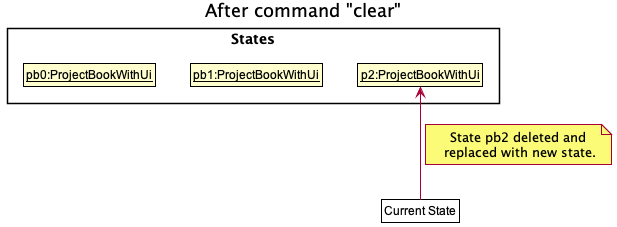
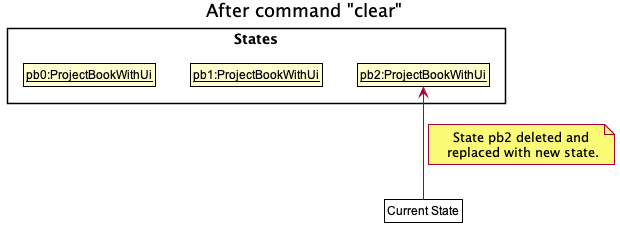
Update developer guide, user guide, logging

diff --git a/src/main/java/seedu/momentum/model/ModelManager.java b/src/main/java/seedu/momentum/model/ModelManager.java
@@ -333,7 +333,7 @@ public class ModelManager implements Model {
         displayList.setValue(new SortedList<>(new FilteredList<>(itemList, currentPredicate), currentComparator));
     }
 
-      //=========== Reminders ==================================================================================
+    //=========== Reminders ==================================================================================
     //@@author claracheong4
     private void rescheduleReminders() {
         reminderManager.rescheduleReminder();
@@ -435,7 +435,7 @@ public class ModelManager implements Model {
         assert canUndoCommand();
         versionedProjectBook.undo();
 
-        // extract view mode details from ProjectBook version after undo
+        // extract details from ProjectBook version after undo (previous state of project book)
         viewMode = versionedProjectBook.getCurrentViewMode();
         currentProject = versionedProjectBook.getCurrentProject();
         currentPredicate = versionedProjectBook.getCurrentPredicate();
@@ -452,7 +452,7 @@ public class ModelManager implements Model {
         assert canRedoCommand();
         versionedProjectBook.redo();
 
-        // extract both timer related and ViewMode details from ProjectBook version after redo
+        // extract details from ProjectBook version after redo ("next" state of project book)
         viewMode = versionedProjectBook.getCurrentViewMode();
         currentProject = versionedProjectBook.getCurrentProject();
         currentPredicate = versionedProjectBook.getCurrentPredicate();
@@ -543,16 +543,26 @@ public class ModelManager implements Model {
         return comparator;
     }
 
+    /**
+     * Produces comparator that orders the list of tracked items based on whether the sort is in ascending order.
+     *
+     * @param comparator Comparator to be used for sorting of projects/tasks
+     * @param isAscending Order of sort specified by user.
+     * @return Comparator that is either itself if ascending or reversed if sort is to be in descending order.
+     */
     private Comparator<TrackedItem> factorIsAscending(Comparator<TrackedItem> comparator, boolean isAscending) {
+        requireAllNonNull(isAscending, comparator);
         return isAscending ? comparator : comparator.reversed();
     }
 
     private Comparator<HashMap<String, Object>> factorIsAscendingHashMap(Comparator<HashMap<String, Object>> comparator,
                                                                          boolean isAscending) {
+        requireAllNonNull(isAscending, comparator);
         return isAscending ? comparator : comparator.reversed();
     }
     /**
-     * Sets the order of list of tracked items by alphabetical order, ascending or descending based on user input.
+     * Produces comparator that sets the order of list of tracked items by alphabetical order, ascending or descending
+     * based on user input.
      *
      * @param isAscending Order of sort specified by user.
      */
@@ -563,7 +573,8 @@ public class ModelManager implements Model {
     }
 
     /**
-     * Sets the order of list of tracked items by deadline order, ascending or descending based on user input.
+     * Produces comparator that sets the order of list of tracked items by deadline order, ascending
+     * or descending based on user input.
      *
      * @param isAscending Order of sort specified by user.
      */
@@ -580,7 +591,8 @@ public class ModelManager implements Model {
     }
 
     /**
-     * Sets the order of list of tracked items by created date order, ascending or descending based on user input.
+     * Produces comparator that sets the order of list of tracked items by created date order, ascending or descending
+     * based on user input.
      *
      * @param isAscending Order of sort specified by user.
      */
@@ -591,7 +603,7 @@ public class ModelManager implements Model {
     }
 
     /**
-     * Sets the order of the list of tracked items to current sort type with specified order
+     * Produces comparator that sets the order of the list of tracked items to current sort type with specified order
      * if sort type has not been specified by user.
      *
      * @param isAscending                Order of sort specified by user.

diff --git a/src/main/java/seedu/momentum/model/VersionedProjectBook.java b/src/main/java/seedu/momentum/model/VersionedProjectBook.java
@@ -1,11 +1,16 @@
 //@@author kkangs0226
 package seedu.momentum.model;
 
+import static seedu.momentum.commons.util.CollectionUtil.requireAllNonNull;
+
 import java.util.ArrayList;
 import java.util.Comparator;
 import java.util.List;
 import java.util.function.Predicate;
+import java.util.logging.Level;
+import java.util.logging.Logger;
 
+import seedu.momentum.commons.core.LogsCenter;
 import seedu.momentum.model.project.Project;
 import seedu.momentum.model.project.TrackedItem;
 
@@ -13,6 +18,8 @@ import seedu.momentum.model.project.TrackedItem;
  * Represents a project book that keeps track of its state, so that it can undo/redo changes.
  */
 public class VersionedProjectBook extends ProjectBook {
+
+    private static final Logger LOGGER = LogsCenter.getLogger(ModelManager.class);
 
     private static final String UNDO = "undo";
     private static final String REDO = "redo";
@@ -59,6 +66,9 @@ public class VersionedProjectBook extends ProjectBook {
      */
     public void commit(ViewMode viewMode, Project currentProject, Predicate<TrackedItem> currentPredicate,
                        Comparator<TrackedItem> currentComparator, boolean isTagsVisible, ReadOnlyUserPrefs userPrefs) {
+
+        requireAllNonNull(viewMode, currentPredicate, currentComparator, userPrefs);
+        LOGGER.log(Level.INFO, "Project book committed to history");
         int historySize = projectBookStateList.size();
         if (currentStatePointer < historySize - 1) {
             flushRedoVersions();
@@ -73,6 +83,7 @@ public class VersionedProjectBook extends ProjectBook {
      */
     public void undo() {
         assert canUndoCommand();
+        LOGGER.log(Level.INFO, "Command has been undone.");
         shiftPointer(UNDO);
         ReadOnlyProjectBook undoVersion = projectBookStateList.get(currentStatePointer);
         resetData(undoVersion);
@@ -83,12 +94,15 @@ public class VersionedProjectBook extends ProjectBook {
      */
     public void redo() {
         assert canRedoCommand();
+        LOGGER.log(Level.INFO, "Undone command has been redone.");
         shiftPointer(REDO);
         ReadOnlyProjectBook redoVersion = projectBookStateList.get(currentStatePointer);
         resetData(redoVersion);
     }
 
     private void shiftPointer(String command) {
+        assert command.equals(REDO) || command.equals(COMMIT) || command.equals(UNDO);
+
         if (command.equals(REDO) || command.equals(COMMIT)) {
             currentStatePointer++;
         } else {
@@ -97,6 +111,7 @@ public class VersionedProjectBook extends ProjectBook {
     }
 
     private void flushRedoVersions() {
+        LOGGER.log(Level.INFO, "History has been flushed.");
         int historySize = projectBookStateList.size();
         int nextPointer = currentStatePointer + 1;
         for (int i = nextPointer; i < historySize; i++) {

diff --git a/src/test/java/seedu/momentum/logic/commands/AddProjectCommandTest.java b/src/test/java/seedu/momentum/logic/commands/AddProjectCommandTest.java
@@ -34,6 +34,7 @@ import seedu.momentum.model.ViewMode;
 import seedu.momentum.model.project.Project;
 import seedu.momentum.model.project.Task;
 import seedu.momentum.model.project.TrackedItem;
+import seedu.momentum.model.project.comparators.NameCompare;
 import seedu.momentum.model.project.comparators.SortType;
 import seedu.momentum.model.tag.Tag;
 import seedu.momentum.testutil.ProjectBuilder;
@@ -370,7 +371,7 @@ public class AddProjectCommandTest {
         private ViewMode viewMode = ViewMode.PROJECTS;
         private Project currentProject = null;
         private Predicate<TrackedItem> currentPredicate = PREDICATE_SHOW_ALL_TRACKED_ITEMS;
-        private Comparator<TrackedItem> currentComparator = null;
+        private Comparator<TrackedItem> currentComparator = new NameCompare();
         private boolean isTagsVisible = true;
         private UserPrefs userPrefs = new UserPrefs();
         private final VersionedProjectBook versionedProjectBook = new VersionedProjectBook(new ProjectBook(),

diff --git a/src/main/java/seedu/momentum/model/project/comparators/DeadlineCompare.java b/src/main/java/seedu/momentum/model/project/comparators/DeadlineCompare.java
@@ -1,6 +1,8 @@
 //@@author kkangs0226
 package seedu.momentum.model.project.comparators;
 
+import static seedu.momentum.commons.util.CollectionUtil.requireAllNonNull;
+
 import java.util.Comparator;
 import java.util.HashMap;
 
@@ -20,6 +22,12 @@ public class DeadlineCompare implements Comparator<HashMap<String, Object>> {
      * @return Integer values for comparison.
      */
     public int compare(HashMap<String, Object> p1, HashMap<String, Object> p2) {
+
+        requireAllNonNull(p1, p2);
+
+        assert p1.containsKey("deadline") && p2.containsKey("deadline")
+                && p1.containsKey("name") && p2.containsKey("name");
+
         Deadline p1Deadline = (Deadline) p1.get("deadline");
         Deadline p2Deadline = (Deadline) p2.get("deadline");;
 

diff --git a/src/main/java/seedu/momentum/model/project/comparators/CreatedDateCompare.java b/src/main/java/seedu/momentum/model/project/comparators/CreatedDateCompare.java
@@ -1,6 +1,8 @@
 //@@author kkangs0226
 package seedu.momentum.model.project.comparators;
 
+import static seedu.momentum.commons.util.CollectionUtil.requireAllNonNull;
+
 import java.util.Comparator;
 
 import seedu.momentum.commons.core.DateWrapper;
@@ -19,6 +21,8 @@ public class CreatedDateCompare implements Comparator<TrackedItem> {
      * @return Integer values for comparison.
      */
     public int compare(TrackedItem t1, TrackedItem t2) {
+
+        requireAllNonNull(t1, t2);
 
         DateWrapper p1DateWrapper = t1.getCreatedDate();
         DateWrapper p2DateWrapper = t2.getCreatedDate();

diff --git a/src/main/java/seedu/momentum/model/project/comparators/NameCompare.java b/src/main/java/seedu/momentum/model/project/comparators/NameCompare.java
@@ -1,6 +1,8 @@
 //@@author kkangs0226
 package seedu.momentum.model.project.comparators;
 
+import static seedu.momentum.commons.util.CollectionUtil.requireAllNonNull;
+
 import java.util.Comparator;
 
 import seedu.momentum.model.project.Name;
@@ -16,6 +18,7 @@ public class NameCompare implements Comparator<TrackedItem> {
      * @return Integer values for comparison.
      */
     public int compare(TrackedItem t1, TrackedItem t2) {
+        requireAllNonNull(t1, t2);
         Name p1Name = t1.getName();
         Name p2Name = t2.getName();
         return p1Name.compareTo(p2Name);

diff --git a/src/main/java/seedu/momentum/model/project/Description.java b/src/main/java/seedu/momentum/model/project/Description.java
@@ -4,7 +4,7 @@ package seedu.momentum.model.project;
 import static java.util.Objects.requireNonNull;
 
 /**
- * Represent a description in Momentum.
+ * Represent a description of a {@code TrackedItem}in Momentum.
  * Guarantees: immutable.
  */
 public class Description {

diff --git a/docs/DeveloperGuide.md b/docs/DeveloperGuide.md
@@ -92,34 +92,18 @@ Given below is the Sequence Diagram for interactions within the `Logic` componen
 
 ![Structure of the Model Component](images/ModelClassDiagram.png)
 
-**API** : [`Model.java`](https://github.com/se-edu/addressbook-level3/tree/master/src/main/java/seedu/address/model/Model.java)
-
-//TODO: remove the stores part for private fields, remove task package, show trackeditem abstract class, task in project package
+**API** : [`Model.java`](https://github.com/AY2021S1-CS2103T-T10-1/tp/blob/master/src/main/java/seedu/momentum/model/Model.java)
 
 The `Model`:
-
-* Stores a `UserPref` object that represents the user’s preferences.
-* Stores a `VersionedProjectBook` object that contains Momentum's data.
-* Stores a `ReminderManager` object that schedules and removes reminders.
-* Stores the following attributes for sorting of `ObservableList<TrackedItems>`:
-
-    * `SortType` object that defines the sort type imposed on the `ObservableList<TrackedItems>`.
-    * `boolean` object that defines whether the `ObservableList<TrackedItems>` of total projects and tasks is sorted by ascending order.
-    * `boolan` object that defines whether the `ObservableList<TrackedItems>` of total projects and tasks is sorted by completion status.
-
-* Stores a `ViewMode` object that represents the current view mode of Momentum (Task view or Project view).
-* Stores a `Project` object that represents the current project Momentum is viewing if user is in Task view within a project.
-* Stores a `boolean` object that defines whether the tags display is visible to the users.
 * Exposes an unmodifiable `ObjectProperty<ObservableList<TrackedItem>>` that stores the projects or tasks that are currently displayed to the user.
 * Exposes an unmodifiable `ObservableList<TrackedItems>` that stores projects or tasks that can be 'observed' e.g. the UI can be bound to this list so that the UI automatically updates when the data in the list change.
 * Exposes an unmodifiable `ObservableList<TrackedItems>` that stores the total projects or tasks with running timers that can be 'observed' e.g. the UI can be bound to this list so that the UI automatically updates when the data in the list change.
 
 Packages in the `Model`: //TODO: add all other packages and rewrite the project and task section.
-
-* The `project` package contains classes representing a `Project` and a `Task`. All relevant clas
-
 * The `project` package contains classes representing a `Project` and `Task` that can be added by a user under a project, such that a project can have a list of tasks.
-Both `Project` and `Task` extend `TrackedItem` and implement `UniqueItem` interface.
+Both `Project` and `Task` extend `TrackedItem`.
+* A `Project` can store multiple `Task` objects.
+* The `project` package also contains `UniqueItemList<TrackedItem>` which is a list of unique projects, or a list of unique tasks.
 
 ### Storage component
 
@@ -432,7 +416,23 @@ Currently, the user adjustable settings are the GUI theme and the timeframe of t
 
 ### Sort Command
 
-The sort command uses comparators to order the list of projects/tasks.
+Momentum allows users to sort their list of projects/tasks using sort command. The following sort types and orders are available:
+
+Sort Type
+ * `SortType.ALPHA`: sort the list of projects/tasks in alphabetical order.
+ * `SortType.DEADLINE`: sort the list of projects/tasks according to their deadlines.
+ * `SortType.CREATED`: sort the list of projects/tasks according to their date of creation.
+ * `SortType.NULL`: sort type not specified by user, sort the list of projects/tasks according to the current sort type.
+ 
+ Sort Order
+ * Ascending order
+ * Descending order
+ 
+ Sort By Completion Status
+ * On: First sort by placing projects/tasks with incomplete status at the top of the list then sorting by specified sort type and order
+ * Off: Sort projects/tasks by specified sort type and order without regard for completion status.
+
+The comparators below facilitate the ordering of the list of projects/tasks.
 
 // TODO: include intro, explain sort types, activity diagram
 
@@ -443,15 +443,19 @@ The sort command uses comparators to order the list of projects/tasks.
 
 #### Design Details
 
-* The `SortCommandParser` passes sort values (Sort type, whether it is in ascending order, whether the default ordering of completion status) to the `ModelManager`.
-* The comparators are then generated according to these values and sort order is imposed on the list of projects/tasks based on the comparator. `ModelManager` stores the information of the latest sort order imposed so that the sort order can be maintained.
+* The `SortCommandParser` parses user input and passes sort values (Sort type, whether it is in ascending order, whether the default ordering of completion status) to the `ModelManager`.
+* The comparators are then generated according to these values in `ModelmMnager` and sort order is imposed on the list of projects/tasks based on the comparator. `ModelManager` stores the information of the latest sort order imposed so that the sort order can be maintained.
 
 * All comparators extend the class `Comparator<TrackedItem>` except `DeadlineCompare`, which extends the class `Comparator<HashMap<String, Object>>`.
 
   * This is because for all other attributes such as name, completion status and created date, it is guaranteed that every TaskItem will have a non-null value, however it is possible that a project or a task has no deadline.
-  * Therefore, I decided to use `Comparator.nullsLast` to place the project/tasks with no deadlines at the end of the list if the list is to be sorted by deadline. Those with deadlines will then be compared by passing in their deadline and name details to a `HashMap` which is then compared using `DeadlineCompare`.
+  * Therefore, `Comparator.nullsLast` was used to place the project/tasks with no deadlines at the end of the list if the list is to be sorted by deadline. Those with deadlines will then be compared by passing in their deadline and name details to a `HashMap` which is then compared using `DeadlineCompare`, while those without deadlines will be sorted in alphabetical order using `NameCompare`.
 
-//TODO: change I
+#### Alternative Implementation: Using `Comparable<TrackedItem>`
+This implementation was initially considered at the start before developing the sort feature further to include different sort types and sort orders. 
+However, this was not as appropriate for usage due to the following reasons:
+* Making `TrackedItem` extend Comparable<TrackedItem>` would not allow for advanced, multi-level sort feature that we have now as it would only be sorted in one particular order.
+* In the case of deadline, some tasks/projects do not have them, and it would not be possible to sort projects/tasks using Comparable<TrackedItem>. 
 
 ### Undo/Redo feature
 
@@ -489,9 +493,6 @@ Step 3. The user executes `add n/Design Webpage for XYZ` to add a new project
 <div markdown="span" class="alert alert-info">:information_source: <strong>Note:</strong> If a command fails its execution, `Model#commitProjectBook()` is not called. Project book state will not be saved into the `projectBookStateList`.
 
 </div>
-
-
-//TODO: change projectbook names pb
 
 Step 4. If user wants undo that action due to some errors in the information, they can do so by executing the `undo` command. The `undo` command calls `Model#undoCommand()`, which resets the current project book with the data from the previous project book state. This is done after `currentStatePointer` is shifted once to the left.
 
@@ -687,15 +688,19 @@ Priorities: High (must have) - `* * *`, Medium (nice to have) - `* *`, Low (unli
 | `* * *`  | user                                        | view the project creation date                    |
 | `* * *`  | user                                        | view the project completion status                    |  |
 | `* * *`  | user                                        | add and edit a deadline for a project                    |                                                                         |
-| `* * *`  | user                                        | add and edit a reminder for a project                    |                                                                         |
+| `* * *`  | user                                        | add and edit a reminder for a project                    |
+| `* * *`  | user                                        | undo a wrong command                    | revert unwanted changes                                                                        |
+| `* * *`  | user                                        | redo a undone command                    | revert unwanted changes               |
 | `* * *`  | user                                        | delete a project                     | remove entries that I no longer need                                    |
 | `* * *`  | user                                        | find a project by name              | locate projects by name without having to go through the entire list |
 | `* * *`  | user                                        | find a project by description               | locate projects by description without having to go through the entire list |
 | `* * *`  | user                                        | find a project by tag               | locate projects by tag without having to go through the entire list |
 | `* * *`  | user                                        | find a project by completion status               | locate projects that are completed or incomplete without having to go through the entire list |
 | `* * *`  | user                                        | find a project by multiple parameters               | locate details of projects without having to go through the entire list |
-| `*`      | user with many projects in the project book | sort projects by name                | locate a project easily                                                 |
-| `*`      | user with many projects in the project book | sort projects by completion status                | locate an incomplete or complete project easily                                                 |
+| `*`      | user with many projects in the project book | sort projects by name                | locate a project easily
+| `**`      | user with many projects in the project book | sort projects by deadline                | prioritise urgent projects/tasks                 
+| `*`      | user with many projects in the project book | sort projects by created date                | view their history of projects/tasks        |
+| `**`      | user with many projects in the project book | sort projects by completion status                | locate an incomplete or complete project easily                                                 |
 | `*`      | user with many projects in the project book | hide and show the tags panel                | focus more on statistics and timers                                                 |
 | `*`      | user with many projects in the project book | dismiss the reminder                | focus more on statistics and timers                                                 |
 | `* *`    | new user                                    | start and stop a timer for a project | track the time I spent on the project                                   |

diff --git a/docs/UserGuide.md b/docs/UserGuide.md
@@ -488,6 +488,8 @@ Format: `undo`
 
 Example: `start 1`, `undo`
 
+Result: Timer for project/task at index 1 is started, then stopped and removed after undo is executed.
+
 The following walkthrough shows how a user can start a timer for a project, then undo the command.
 
 1. Key in command `start 1` in the command window.
@@ -507,6 +509,8 @@ The redo command redoes previously undone command and resets the application to 
 Format: `redo`
 
 Example: `sort type/deadline`, `undo`, `redo`
+
+Result: Projects are sorted by deadline, then the application is reset to the sorting order before sort command was executed, then reset back to sort by deadline after redo command.
 
 The following walkthrough shows how a user can start a timer for a project, then undo the command.
 
@@ -528,8 +532,8 @@ The following walkthrough shows how a user can start a timer for a project, then
 <div markdown="block" class="alert alert-primary">
 
 :bulb: **Tip:**<br>
-* Undo/redo feature keeps track of changes in state, and hence will not work on `help` command which does not change the state of the application.<br>
-* Redo command only works if there the previous command is `undo`.<br>
+* Undo/redo feature does not work on `help` command which does not change the state of the application.<br>
+* Redo command only works if the previous command is `undo`.<br>
 
 </div>
 
@@ -632,10 +636,12 @@ Action | Format | Example
 **Edit existing project/task** | `edit ID n/NAME [d/DESCRIPTION] [c/]  [dd/DEADLINE_DATE [dt/DEADLINE_TIME]] [r/REMINDER_DATE_TIME] [t/TAG]`| `edit 3 n/NewMomentum d/NewDescription dl/2020-12-07 r/2020-12-07T01:21:21 t/normal`
 **Delete a project/task** | `delete ID` | `delete 3`
 **Find a project/task** | `find [match/FILTER_TYPE] [n/NAME [MORE_NAMES]...] [d/DESCRIPTION [MORE_DESCRIPTIONS]...] [t/TAG [MORE_TAGS]...]  [c/]`  | `find match/any n/Momentum d/new t/normal`
+**Sort projects/tasks** | `sort [type/SORT_TYPE] [order/SORT_ORDER] [c/]` | `sort type/deadline order/dsc c/`
 **Show All projects/tasks** | `list` | `list`
 **Start Timer** | `start ID` | `start 2`
 **Stop Timer** | `stop ID` | `stop 2`
-**Undo/redo** | `undo` | `redo`
+**Undo** | `undo` | `undo`
+**Redo** | `redo` | `redo`
 **Show and Hide Sidebar Components** | `show [r/]` | `show r/`
 **Settings** | `set [th/THEME] [st/TIMEFRAME]` | `set th/dark st/daily`
 **Exit** | `exit` | `exit`
